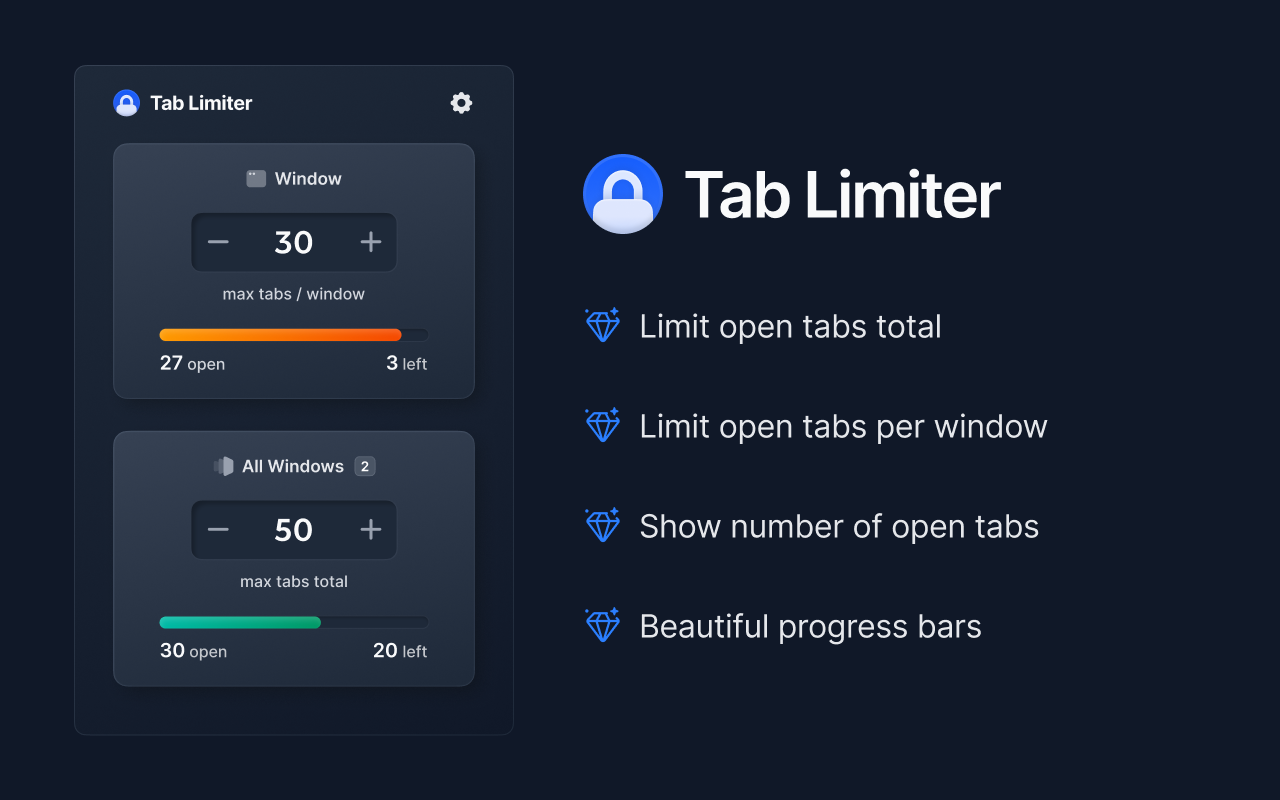
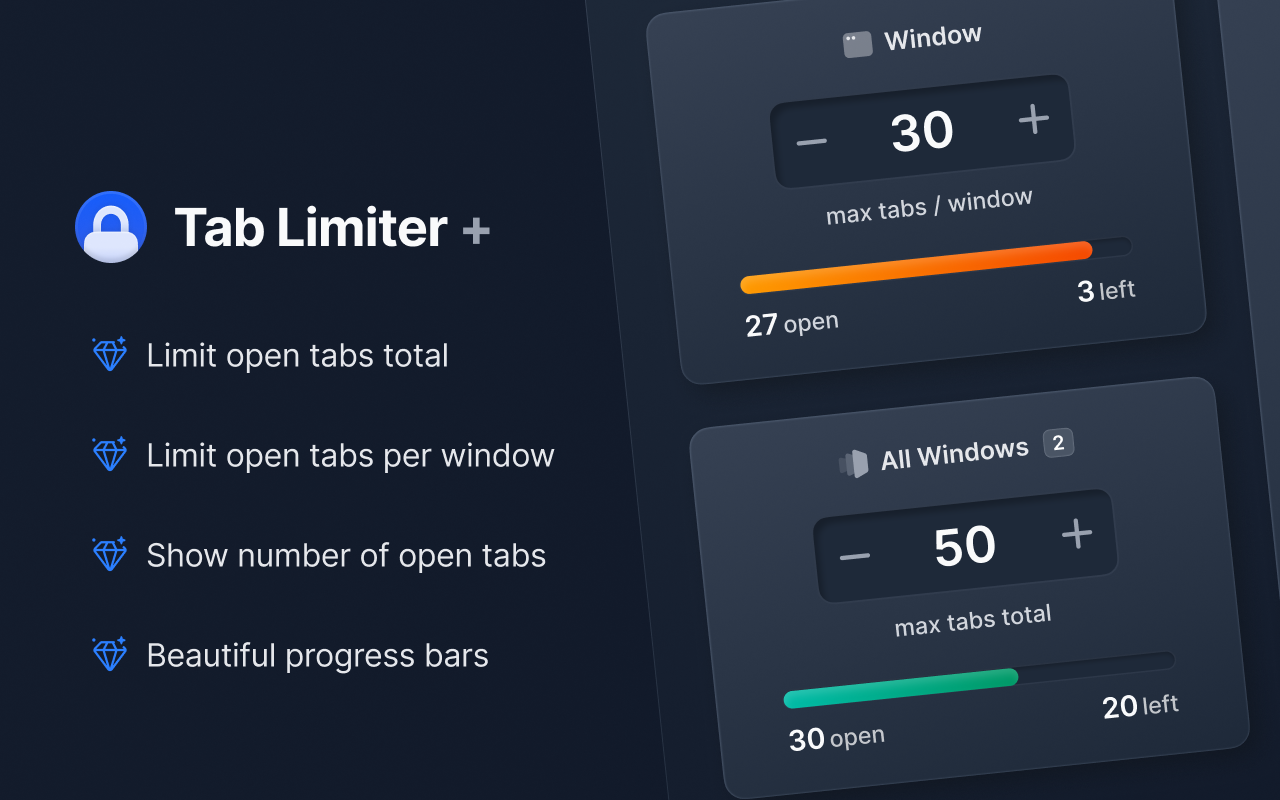
Rename

diff --git a/src/common/options.js b/src/common/options.js
@@ -128,7 +128,9 @@ const buildTopDomains = (tabs, maxItems) => {
     }
 
     const sortedDomains = Array.from(domainCounts.entries())
-        .sort((a, b) => (b[1].count !== a[1].count ? b[1].count - a[1].count : a[0].localeCompare(b[0])))
+        .sort((a, b) =>
+            b[1].count !== a[1].count ? b[1].count - a[1].count : a[0].localeCompare(b[0]),
+        )
         .map(([domain, data]) => ({ domain, count: data.count, faviconUrl: data.faviconUrl }));
 
     return sortedDomains.slice(0, maxItems);
@@ -401,7 +403,6 @@ const toggleView = () => {
 
         currentView = "main";
     }
-
 };
 
 // Collect and save options to storage
@@ -430,6 +431,9 @@ const saveOptions = () => {
 
 // Restore options from storage
 const restoreOptions = () => {
+    const manifest = browserRef.runtime.getManifest();
+    document.getElementById("footerVersion").textContent = `v${manifest.version}`;
+
     browserRef.storage.sync.get("defaultOptions", (defaults) => {
         browserRef.storage.sync.get(defaults.defaultOptions, (options) => {
             applyOptionsToInputs(options);
@@ -460,7 +464,7 @@ document.addEventListener("DOMContentLoaded", () => {
 
     // Wire up change/keyup events for auto-save
     const onChangeInputs = document.querySelectorAll(
-        'input[type="checkbox"], input[type="number"]'
+        'input[type="checkbox"], input[type="number"]',
     );
     const onKeyupInputs = document.querySelectorAll('input[type="number"]');
 
@@ -531,8 +535,14 @@ document.addEventListener("DOMContentLoaded", () => {
         }
     });
 
-    addListenerIfAvailable(browserRef.windows && browserRef.windows.onCreated, onTabCountRelevantChange);
-    addListenerIfAvailable(browserRef.windows && browserRef.windows.onRemoved, onTabCountRelevantChange);
+    addListenerIfAvailable(
+        browserRef.windows && browserRef.windows.onCreated,
+        onTabCountRelevantChange,
+    );
+    addListenerIfAvailable(
+        browserRef.windows && browserRef.windows.onRemoved,
+        onTabCountRelevantChange,
+    );
 
     // Keep multiple open popups/options pages in sync.
     browserRef.storage.onChanged.addListener((changes, areaName) => {

diff --git a/src/common/options.html b/src/common/options.html
@@ -29,8 +29,8 @@
                     alt="Tab Limiter"
                     class="header-icon"
                 />
-                <h1>Tab Limiter</h1>
-                <div class="subtitle hidden" id="subtitle">| Settings</div>
+                <h1>Tab Limiter <span class="plus">+</span></h1>
+                <div class="subtitle hidden" id="subtitle"> Settings</div>
             </div>
             <button
                 type="button"
@@ -313,5 +313,13 @@
 
 
         </div>
+
+        <footer class="footer">
+            <span id="footerVersion"></span>
+            <span>·</span>
+            <a href="https://github.com/tavlean/TabLimiterPlus/issues" target="_blank" rel="noopener">Feedback</a>
+            <span>·</span>
+            <span>Made by <a href="https://x.com/tavlean" target="_blank" rel="noopener">Tavlean</a></span>
+        </footer>
     </body>
 </html>

diff --git a/src/common/options.css b/src/common/options.css
@@ -100,9 +100,13 @@ body {
     color: var(--text-primary);
 }
 
+.header .plus {
+    color: var(--text-quinary);
+}
+
 .subtitle {
     font-size: 14px;
-    color: var(--text-tertiary);
+    color: var(--text-quaternary);
     margin: 0;
 }
 
@@ -619,4 +623,25 @@ body.colored-favicons-enabled .domain-favicon {
 
 .progress-fill.red {
     background: linear-gradient(90deg, #ef4444 0%, #dc2626 100%); /* red-500 to red-600 */
+}
+
+/* Footer */
+.footer {
+    display: flex;
+    align-items: center;
+    justify-content: center;
+    gap: 6px;
+    padding-top: 16px;
+    font-size: 11px;
+    color: var(--text-quinary);
+}
+
+.footer a {
+    color: var(--text-quinary);
+    text-decoration: none;
+    transition: color 0.15s ease;
+}
+
+.footer a:hover {
+    color: var(--text-tertiary);
 }

diff --git a/README.md b/README.md
@@ -1,6 +1,6 @@
-# Tab Limiter
+# Tab Limiter Plus
 
-A cross-browser extension to limit the number of open tabs, globally and per-window. Supports Chrome and Firefox from one shared source layout.
+A cross-browser extension to limit the number of open tabs, globally, per-window, and per-domain. Supports Chrome and Firefox from one shared source layout.
 
 ## Features
 
